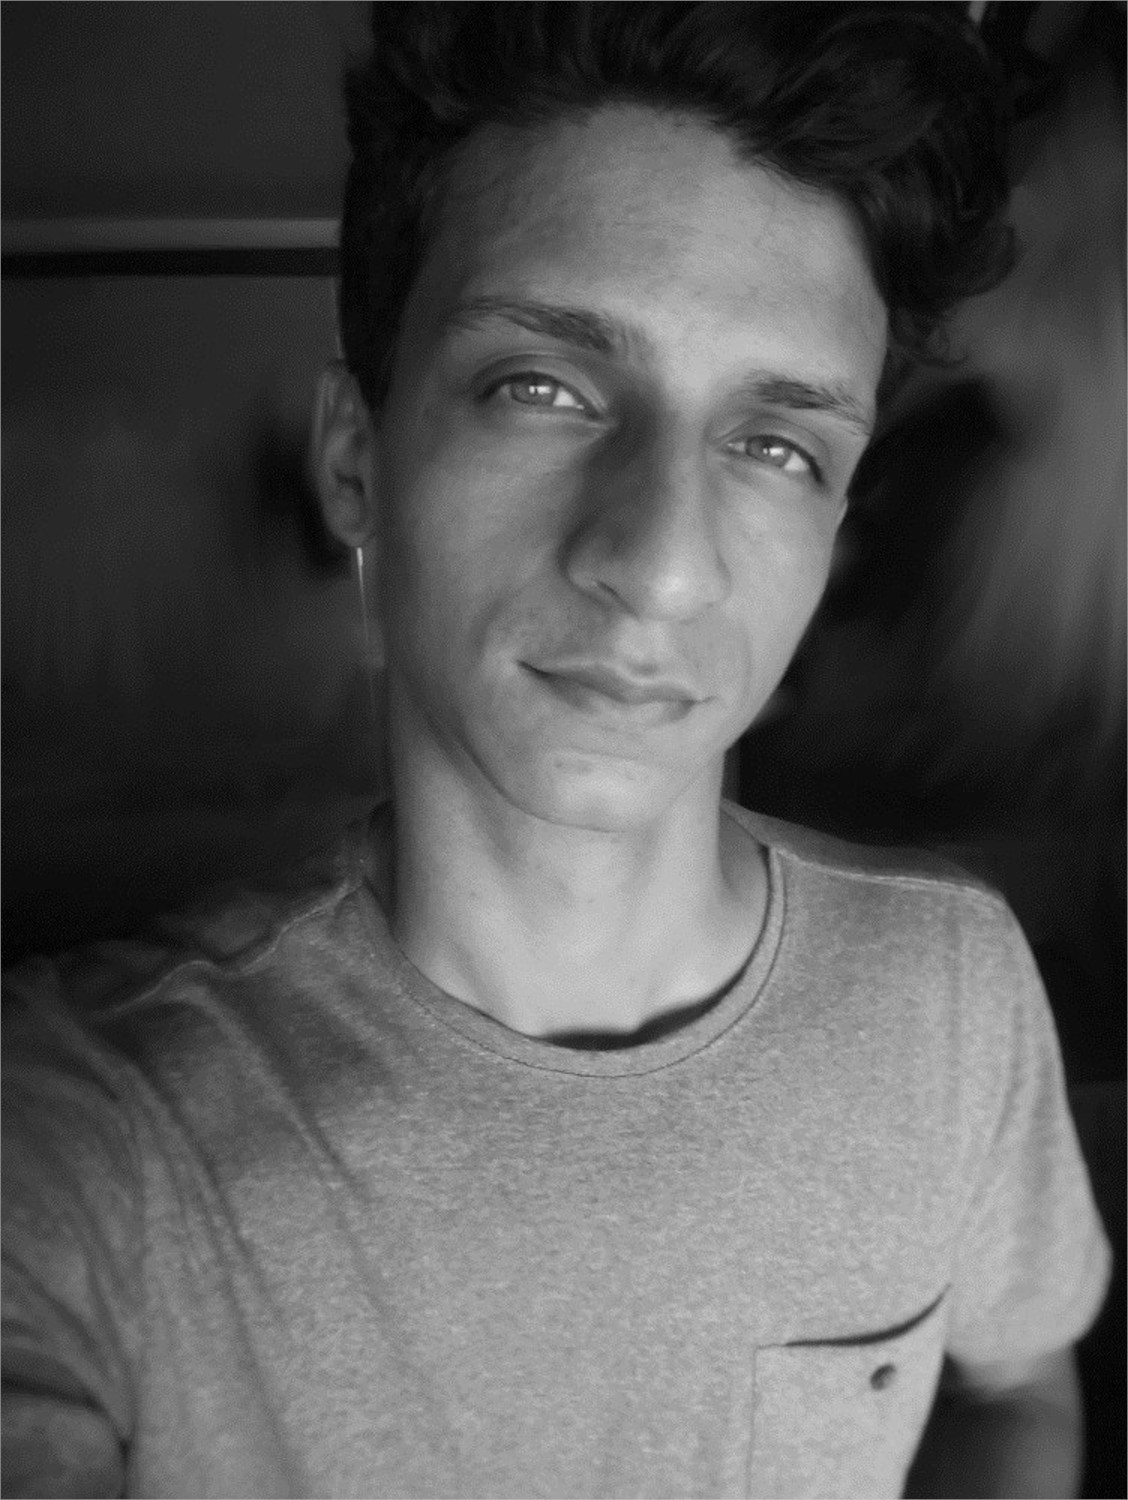
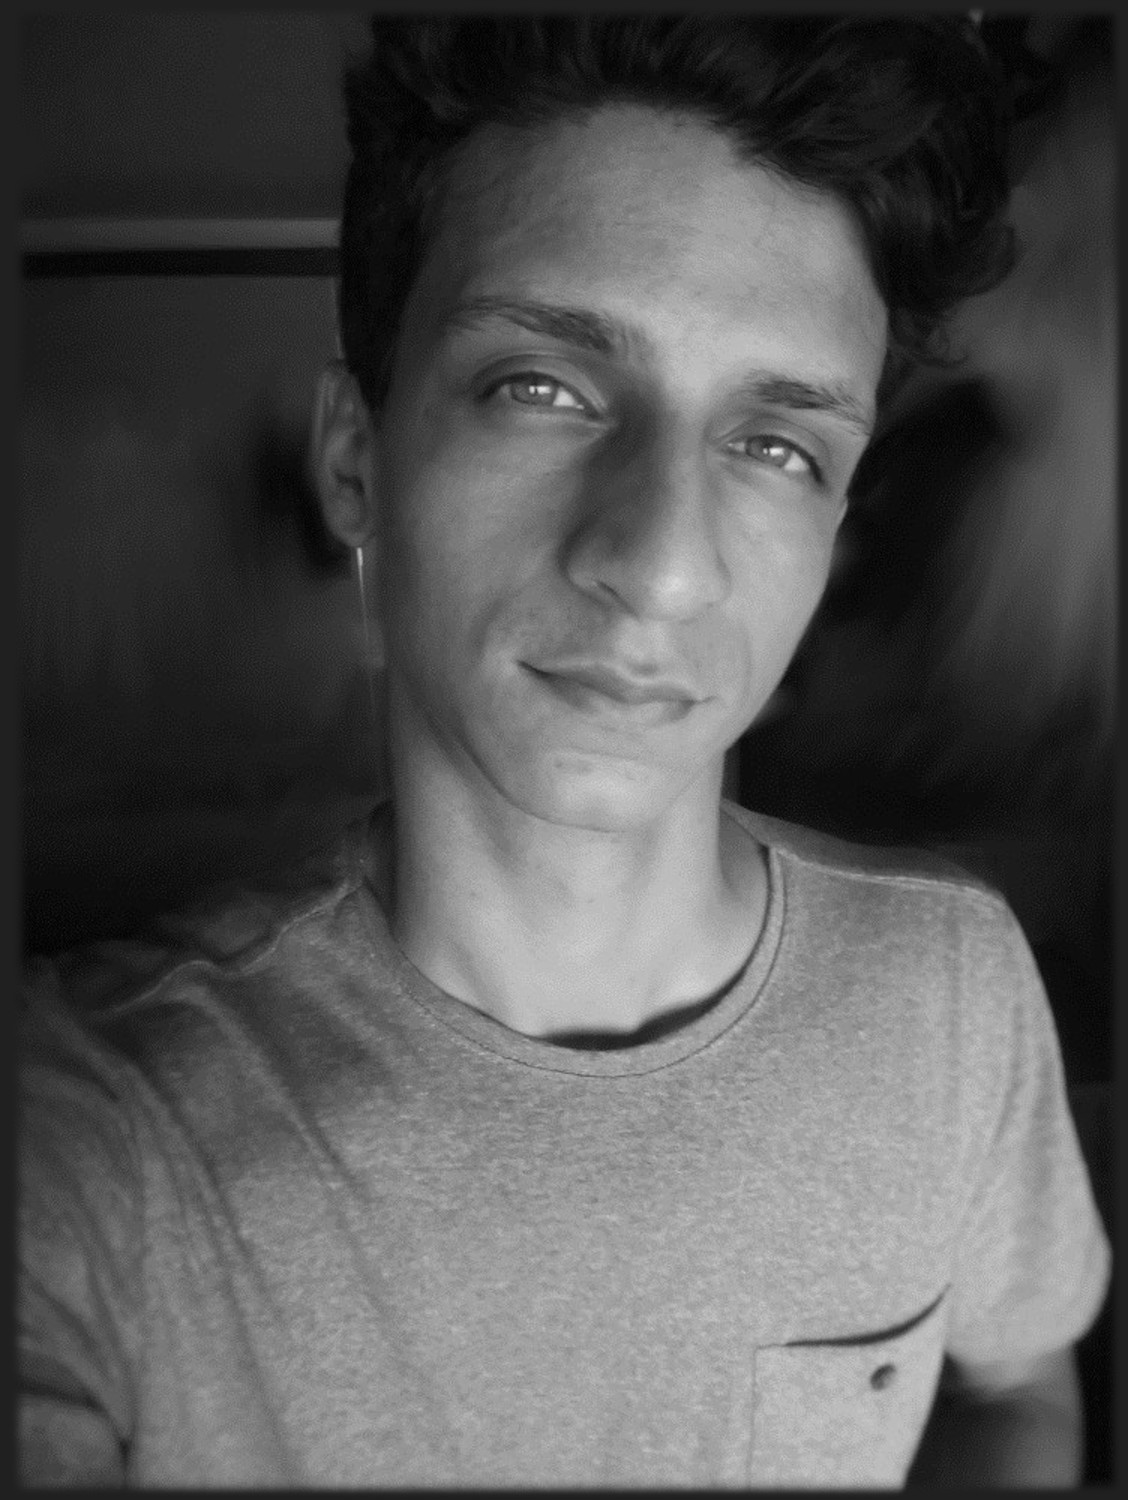
Corrigido typos e suavizada as bordas da foto.

diff --git a/index.html b/index.html
@@ -60,11 +60,11 @@
         <p class="title">Competências</p>
         <hr />
         <p class="text">
-          Hardware de computadores, com experiência em planejamento, montagem e dia gnóstico de problemas; <br />
+          Hardware de computadores, com experiência em planejamento, montagem e diagnóstico de problemas; <br />
           PowerShell Scripting; <br />
           Automação no Windows 10 e 11 (com PowerShell e PowerAutomate); <br />
-          Programação em C# e JS (iniciante); <br />
-          Conhecimentos de HTML e CSS; <br />
+          Programação em C# e JS; <br />
+          HTML e CSS; <br />
           Microsoft Office Suite; <br />
           Poweruser de Windows e Linux. <br />
         </p>
@@ -74,7 +74,7 @@
         <p class="title">Experiência</p>
         <hr />
         <p class="text">
-          <small>Dez. 2020 à Mar. 2021</small> Assistente de TI <br />
+          <small>Dez. 2020 à Mar. 2021</small> - Assistente de TI <br />
           Colégio Antonio Huback <br />
           Função: Fazer o cabeamento, configurar rede e preparar computadores, instalando sistema operacional, periféricos e aplicativos (entre 20 e 30
           máquinas), a serem usados em salas para aulas remotas. <br />
@@ -85,9 +85,9 @@
         <p class="title">Qualidades</p>
         <hr />
         <p class="text">
-          Criativo... Afinal, todo problema tem ao menos uma solução, basta encontra-la, senão, cria-la; <br /><br />
-          Amante da tecnologia... Saber o desligar e ligar é útil, mas estudar o "por quê?" e o "como?" é onde está a diversão; <br /><br />
-          Profissional... Ser gentil ao procurar atender as expectativas do cotidiano é algo a ser praticado diariamente...
+          Criativo... Afinal, todo problema tem ao menos uma solução, basta encontra-la, senão, cria-la; <br />
+          Amante da tecnologia... Saber o desligar e ligar é útil, mas estudar o "por quê?" e o "como?" é onde está a diversão; <br />
+          Profissional... Ser gentil ao procurar atender as expectativas do cotidiano é algo a ser praticado diariamente...<br />
         </p>
       </div>
       <!-- End of "softskills"-->
